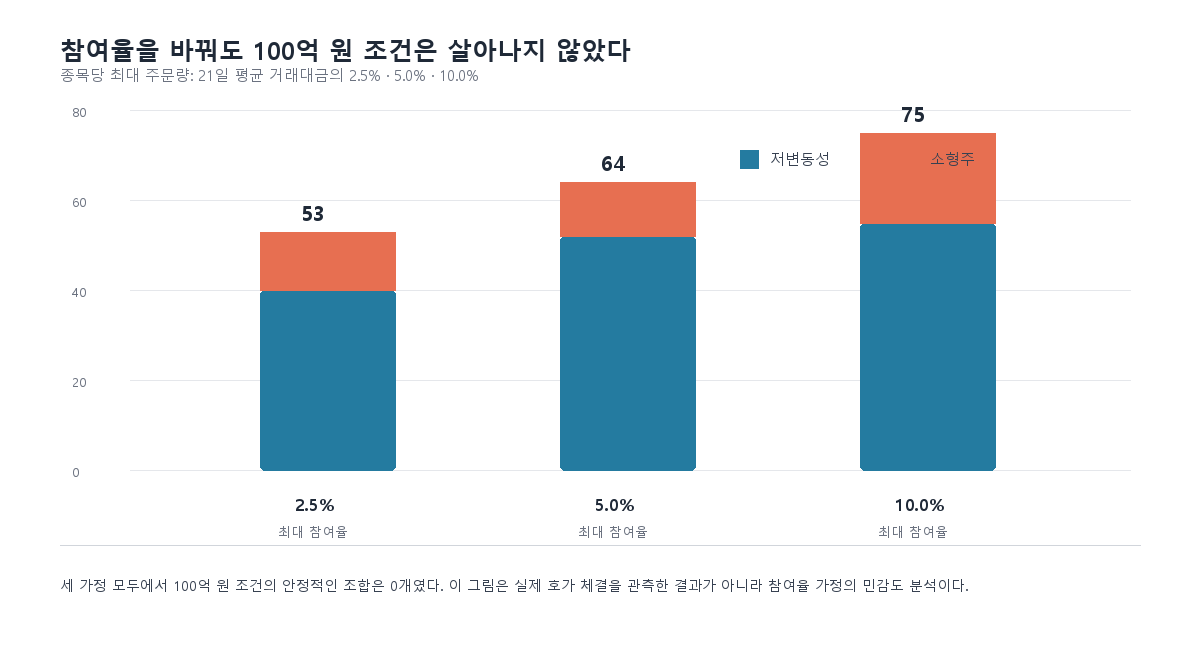
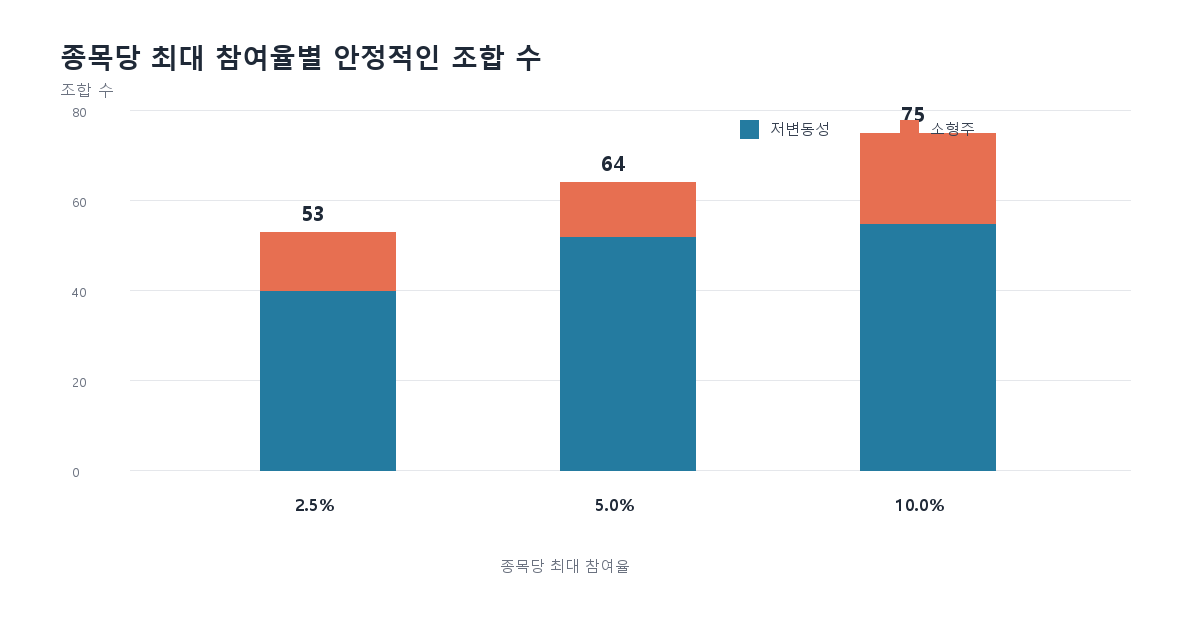
Simplify part one charts for blog use

diff --git a/tools/build_blog_assets.py b/tools/build_blog_assets.py
@@ -152,7 +152,7 @@ def topology_map(rows: list[dict[str, str]]) -> None:
 
 
 def robustness_summary_chart(rows: list[dict[str, str]]) -> None:
-    """Replace the dense parameter grid with a conventional, readable chart."""
+    """A plain chart: interpretation belongs in the body text, not the image."""
     robust = [row for row in rows if row["robust"] == "True"]
     signal_order = ["reversal_1m", "momentum_6m", "low_volatility", "small_cap"]
     total_by_signal = {signal: sum(row["signal"] == signal for row in robust) for signal in signal_order}
@@ -162,41 +162,38 @@ def robustness_summary_chart(rows: list[dict[str, str]]) -> None:
         for signal in ["low_volatility", "small_cap"]
     }
 
-    image = Image.new("RGB", (1600, 980), "white")
+    image = Image.new("RGB", (1600, 900), "white")
     draw = ImageDraw.Draw(image)
     navy, muted, grid = "#1F2937", "#667085", "#E5E7EB"
     lowvol, smallcap, neutral = "#247BA0", "#E76F51", "#B7C0CC"
-    draw.text((70, 42), "조건을 바꾼 뒤에도 남은 전략은 저변동성에 집중됐다", fill=navy, font=font(32, True))
-    draw.text((70, 86), "각 막대는 비용·유동성·종목 수·운용 규모를 바꾼 뒤 네 기준을 모두 통과한 전략 조합 수다.", fill=muted, font=font(18))
-    draw.text((70, 116), "통과 기준: 비용 차감 CAGR > 0 · t > 1.96 · MDD > -60% · 평균 체결률 ≥ 80%", fill=muted, font=font(16))
 
-    # Panel A: one familiar horizontal bar chart.
-    draw.text((70, 184), "신호별 안정적인 조합 수", fill=navy, font=font(23, True))
-    draw.text((70, 214), "각 신호당 총 432개 후보 중 통과한 조합", fill=muted, font=font(16))
+    # Familiar horizontal bar chart.
+    draw.text((70, 45), "신호별 안정적인 조합 수", fill=navy, font=font(28, True))
+    draw.text((70, 82), "조합 수", fill=muted, font=font(16))
     x0, max_width, max_value = 300, 740, 60
     for tick in range(0, 61, 10):
         x = x0 + int(max_width * tick / max_value)
-        draw.line((x, 260, x, 585), fill=grid, width=1)
+        draw.line((x, 125, x, 405), fill=grid, width=1)
         box = draw.textbbox((0, 0), str(tick), font=font(14))
-        draw.text((x - (box[2] - box[0]) / 2, 592), str(tick), fill=muted, font=font(14))
+        draw.text((x - (box[2] - box[0]) / 2, 412), str(tick), fill=muted, font=font(14))
     for index, signal in enumerate(signal_order):
-        y = 285 + index * 72
+        y = 145 + index * 58
         label = LABELS[signal]
-        draw.text((70, y + 13), label, fill=navy, font=font(19, True))
+        draw.text((70, y + 9), label, fill=navy, font=font(18, True))
         value = total_by_signal[signal]
         color = lowvol if signal == "low_volatility" else smallcap if signal == "small_cap" else neutral
         width = int(max_width * value / max_value)
         if width:
-            draw.rounded_rectangle((x0, y, x0 + width, y + 42), radius=6, fill=color)
+            draw.rectangle((x0, y, x0 + width, y + 34), fill=color)
         else:
-            draw.line((x0, y + 21, x0 + 7, y + 21), fill=neutral, width=3)
-        draw.text((x0 + max(width, 10) + 14, y + 8), f"{value}개", fill=navy, font=font(19, True))
+            draw.line((x0, y + 17, x0 + 7, y + 17), fill=neutral, width=3)
+        draw.text((x0 + max(width, 10) + 14, y + 4), str(value), fill=navy, font=font(18, True))
 
-    # Panel B: ordinary grouped bars by liquidity bucket.
-    panel_y = 690
-    draw.text((70, panel_y), "남은 조합은 어느 유동성 범위에 있었나", fill=navy, font=font(23, True))
-    draw.text((70, panel_y + 30), "저변동성은 상위 60~90%, 소형주는 상위 80~90%에서만 통과 조합이 남았다.", fill=muted, font=font(16))
-    left, top, bottom, right = 160, 770, 925, 1500
+    # Ordinary grouped bars by liquidity bucket.
+    panel_y = 500
+    draw.text((70, panel_y), "유동성 유니버스별 안정적인 조합 수", fill=navy, font=font(28, True))
+    draw.text((70, panel_y + 38), "조합 수", fill=muted, font=font(16))
+    left, top, bottom, right = 160, 590, 820, 1500
     for tick in range(0, 21, 5):
         y = bottom - int((bottom - top) * tick / 20)
         draw.line((left, y, right, y), fill=grid, width=1)
@@ -213,11 +210,10 @@ def robustness_summary_chart(rows: list[dict[str, str]]) -> None:
         label = "전체" if pct == 1.0 else f"{int(pct * 100)}%"
         box = draw.textbbox((0, 0), label, font=font(14))
         draw.text((center - (box[2] - box[0]) / 2, bottom + 15), label, fill=muted, font=font(14))
-    draw.rectangle((1160, 690, 1178, 708), fill=lowvol)
-    draw.text((1188, 688), "저변동성", fill=navy, font=font(15))
-    draw.rectangle((1320, 690, 1338, 708), fill=smallcap)
-    draw.text((1348, 688), "소형주", fill=navy, font=font(15))
-    draw.text((70, 950), "0은 해당 유동성 구간에서 네 기준을 모두 통과한 조합이 없었다는 뜻이다. 수익률이나 종목 수를 뜻하지 않는다.", fill=muted, font=font(15))
+    draw.rectangle((1150, 510, 1168, 528), fill=lowvol)
+    draw.text((1178, 508), "저변동성", fill=navy, font=font(15))
+    draw.rectangle((1320, 510, 1338, 528), fill=smallcap)
+    draw.text((1348, 508), "소형주", fill=navy, font=font(15))
     save_png(image, "01_robustness_map.png")
 
 
@@ -417,10 +413,10 @@ def suspension_screen_chart() -> None:
 def participation_sensitivity_chart() -> None:
     report = json.loads((RESULTS / "participation_sensitivity_report.json").read_text(encoding="utf-8"))
     rows = report["summary"]
-    image = Image.new("RGB", (1200, 650), "white")
+    image = Image.new("RGB", (1200, 620), "white")
     draw = ImageDraw.Draw(image)
-    draw.text((60, 32), "참여율을 바꿔도 100억 원 조건은 살아나지 않았다", fill="#1F2937", font=font(25, True))
-    draw.text((60, 64), "종목당 최대 주문량: 21일 평균 거래대금의 2.5% · 5.0% · 10.0%", fill="#6B7280", font=font(15))
+    draw.text((60, 38), "종목당 최대 참여율별 안정적인 조합 수", fill="#1F2937", font=font(27, True))
+    draw.text((60, 78), "조합 수", fill="#6B7280", font=font(16))
     base_y, scale = 470, 4.5
     for tick in range(0, 81, 20):
         y = base_y - tick * scale
@@ -432,17 +428,15 @@ def participation_sensitivity_chart() -> None:
         low = int(row["low_volatility_nodes"])
         small = int(row["small_cap_nodes"])
         low_h, small_h = int(low * scale), int(small * scale)
-        draw.rounded_rectangle((x, base_y - low_h, x + 135, base_y), radius=5, fill="#247BA0")
+        draw.rectangle((x, base_y - low_h, x + 135, base_y), fill="#247BA0")
         draw.rectangle((x, base_y - low_h - small_h, x + 135, base_y - low_h), fill="#E76F51")
         draw.text((x + 41, base_y - low_h - small_h - 34), str(low + small), fill="#1F2937", font=font(21, True))
         draw.text((x + 35, base_y + 22), labels[index], fill="#1F2937", font=font(17, True))
-        draw.text((x + 18, base_y + 52), "최대 참여율", fill="#6B7280", font=font(13))
-    draw.rectangle((740, 150, 758, 168), fill="#247BA0")
-    draw.text((770, 148), "저변동성", fill="#374151", font=font(15))
-    draw.rectangle((900, 150, 918, 168), fill="#E76F51")
-    draw.text((930, 148), "소형주", fill="#374151", font=font(15))
-    draw.line((60, 545, 1140, 545), fill="#D1D5DB", width=1)
-    draw.text((60, 575), "세 가정 모두에서 100억 원 조건의 안정적인 조합은 0개였다. 이 그림은 실제 호가 체결을 관측한 결과가 아니라 참여율 가정의 민감도 분석이다.", fill="#374151", font=font(14))
+    draw.rectangle((740, 120, 758, 138), fill="#247BA0")
+    draw.text((770, 118), "저변동성", fill="#374151", font=font(15))
+    draw.rectangle((900, 120, 918, 138), fill="#E76F51")
+    draw.text((930, 118), "소형주", fill="#374151", font=font(15))
+    draw.text((500, 555), "종목당 최대 참여율", fill="#6B7280", font=font(15))
     save_png(image, "11_participation_sensitivity.png")
 
 